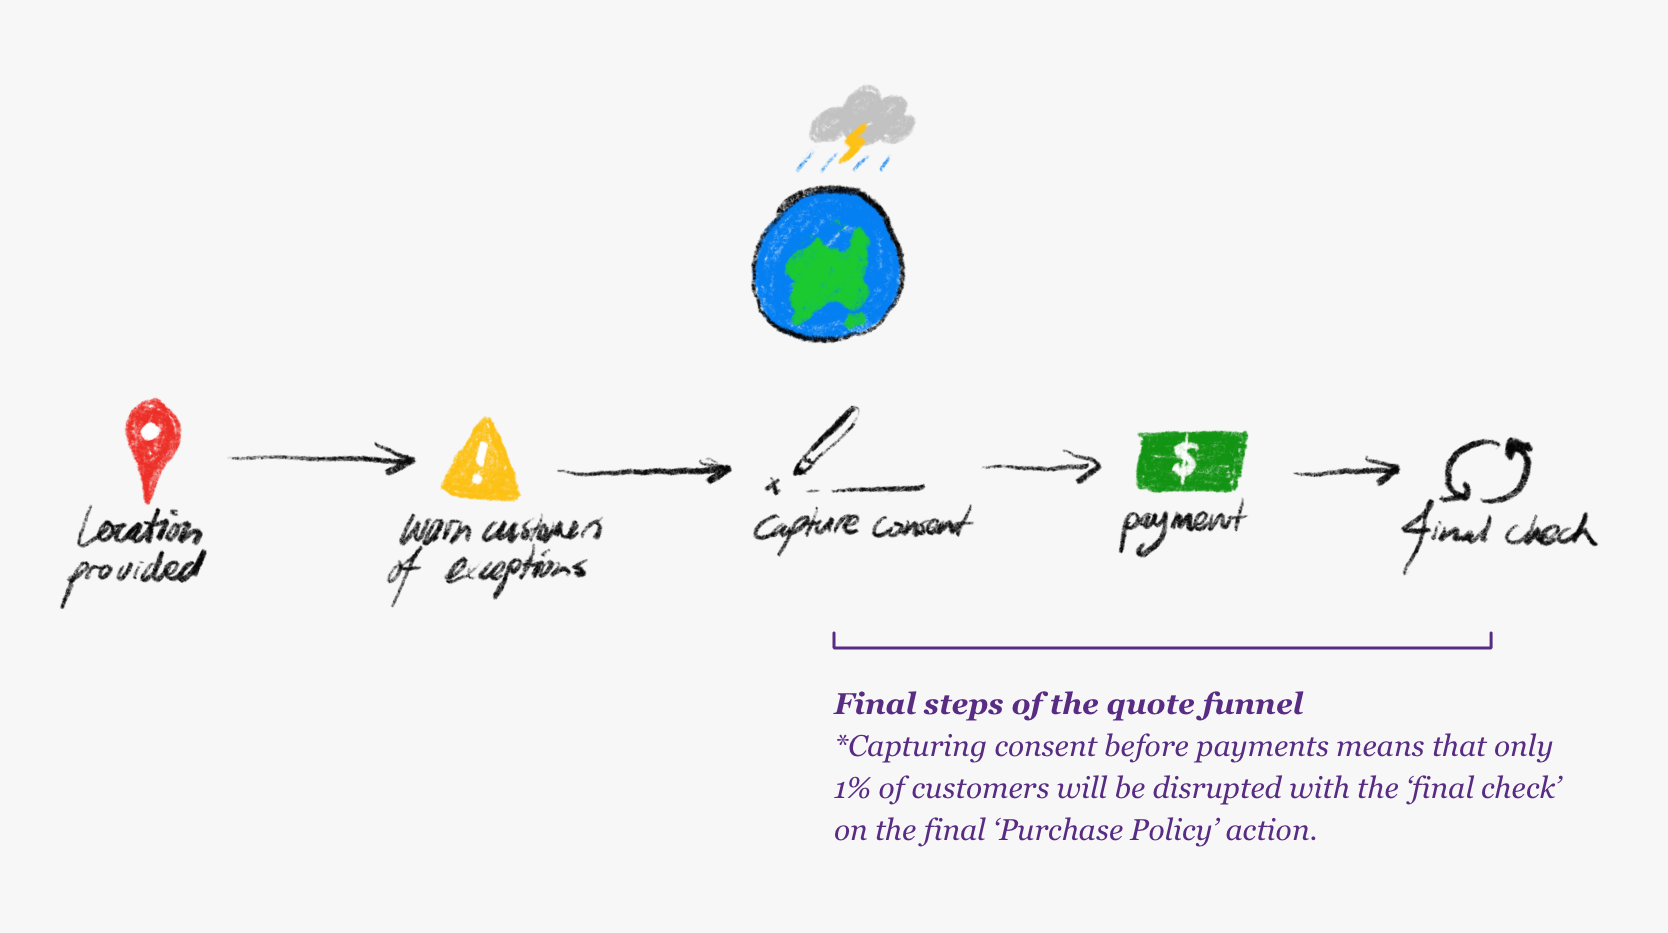
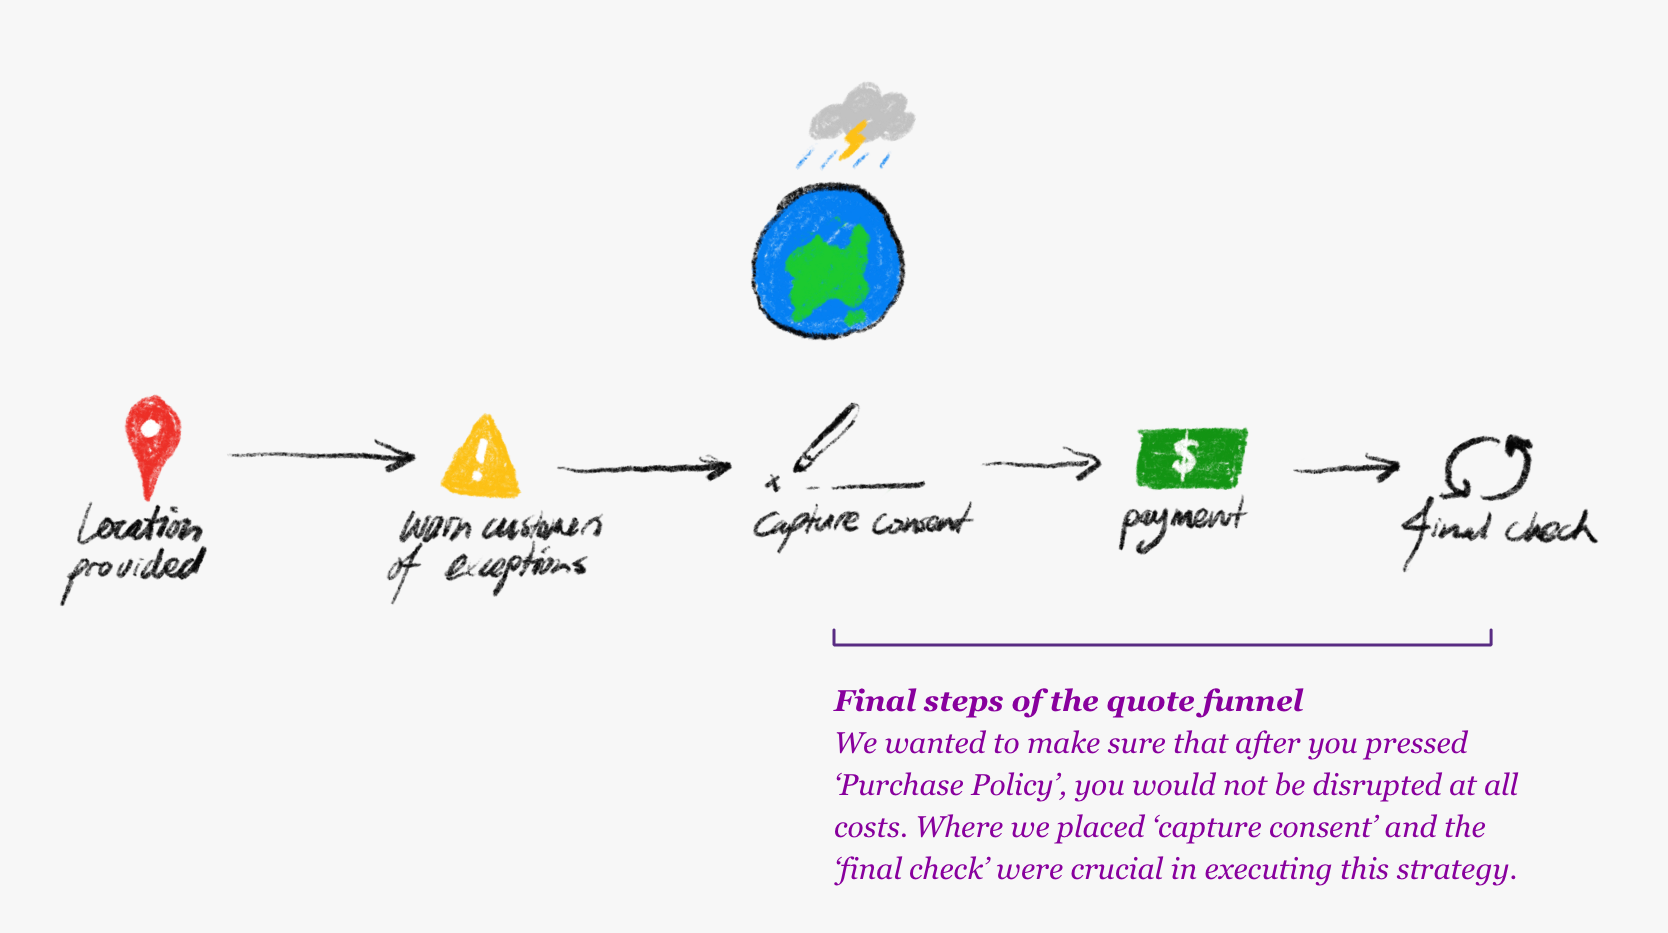
dsa

diff --git a/a0111b67a03ca3a8592ef069f359cd303bd3b186/iag.html b/a0111b67a03ca3a8592ef069f359cd303bd3b186/iag.html
@@ -46,7 +46,7 @@
 		</div>
 		<div class="col-md-6 col-md-offset-3 portfolio-section" style="margin-top: 24px">
 			<p>
-				<i><b> My responsibilities </b></i> The first phase of this project is to deliver NRMA’s Buildings and Contents Insurance and Vehicle Insurance products which I am delivering in unison. This program of work delivers a new technology stack and a host of new design and technical constraints. I am leading and laying the foundational interaction design and UX frameworks for future and current projects to inherit and reuse.<br><br><u> Also responsible for technical designs, UI design and writing content to communicate abstract and complex insurance products and services. </u>
+				<i><b> My responsibilities </b></i> Delivering NRMA's Motor and Home in unison. This program of work delivers a new technology stack and a host of new design and technical constraints. I am leading the foundational interaction design and UX frameworks for future and current projects to inherit and reuse.<br><br><u> Other responsibilities include UI design, design testing and UX writing. </u>
 			</p>
 		</div>
 		
@@ -54,10 +54,10 @@
 			<h2> Case studies </h2>
 			<span class="subtitle"> no.1 - Product qualfication  </span>
 			<h3> 
-				Before we start the app, we qualify the customer by asking a series of questions to establish the property occupancy type.
+				We studied the path that would be the most disruptive for the customer. It's almost as if everything else hinged on how they answered these questions.
 			</h3>
-			<p> 
-				This data point allows customers to navigate to their desired destination, this could be another brand / another product or a referral to speak to someone over the phone. Most importantly – we can alert and stop customers from progressing if they’re disqualified at the very start which saves them time and a frustrating experience.
+			<p>
+				By asking these questions before the app started. We were able to distribute the users into their relevant page / quote funnel. Most importantly, we are able to stop users from proceeding earlier, and shielding them from wasting time trying to buy a product they're not eligible for.
 			</p>
 		</div>
 		<div class="col-md-8 col-md-offset-2 hero">
@@ -74,7 +74,7 @@
 			</p>
 			<p>
 				</br>
-				By creating an <b>exception hierarchy, </b> we are able to prioritise and serve up exceptions in a fixed order. This can be observed by how we prioritise clearing input validations and not wasting service calls in a scenario where our data is not clean. Another common case is that if we have a better product for customers, we'll re-direct them before we boot them out the funnel. <i><b>Obvious?</b> Not really. We could only solve all of these exceptions in unison - once we took a step back, analysed and solved this as an overarching system. </i>
+				By creating an <b>exception hierarchy, </b> we are able to prioritise and serve up exceptions in a considered manner. This can be observed by how we prioritise clearing input validation before executing service calls, whether we refer to a call centre or a cross-funnel product referals, when geographic exclusions that affect you become active and many more. 
 			</p>
 		</div>
 		<div class="col-md-8 col-md-offset-2 hero">
@@ -88,7 +88,7 @@
 				Some customers may be on the boundaries of our policy rules. Variations to policies may also be applied retrospectively in a 24/7 window. This meant we needed a dynamic system to cater for geographic exclusions caused by natural disasters like bushfires, storms, floods, tsunamis and pandemics. 
 			</h3>
 			<p> 
-				These system events need to be communicated and accepted by the customer. In our approach we wanted to warn customers of exclusion when they provided their locality at the beginning of the funnel. The challenge was that the initial acceptance could be invalid by the time the customer reaches the final steps of the quote funnel.
+				These system events need to be communicated and accepted by the customer. In our approach we wanted to warn customers of exclusion as soon as they provided us with their address. The challenge was that the initial acceptance could be invalid by the time the customer reaches the final steps of the quote funnel due to the dynamic nature of Australia's natural environment.
 			</p>
 		</div>
 		<div class="col-md-8 col-md-offset-2 hero">
